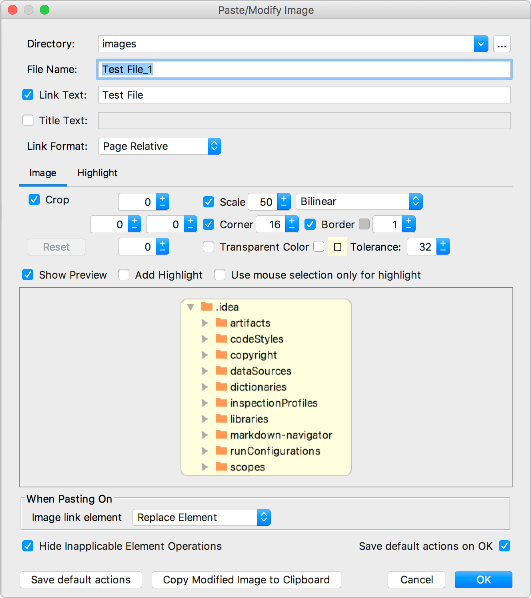
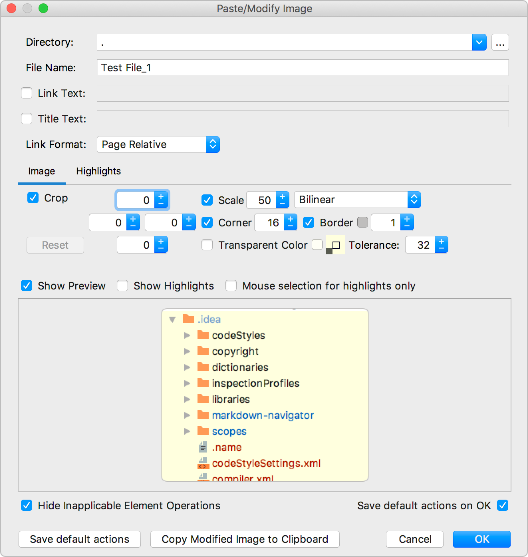
dist eap 2.7.0.10
add multiple highlights to paste images

diff --git a/resources/com/vladsch/idea/multimarkdown/html_mime_default.css b/resources/com/vladsch/idea/multimarkdown/html_mime_default.css
@@ -1,3 +1,4 @@
+abbr                         { border-bottom: 1px dashed #0366d6 }
 aside                        { margin:0;padding:0 0 0 10pt;border-left:2pt solid #C80010; }
 blockquote                   { margin:0;padding:0 0 0 10pt;border-left:2pt solid #bbb;color:#666; }
 blockquote h1                { margin:1.3em 0 1em;padding:0;font-weight:bold;font-size:1.6em;border-bottom:1pt solid #ddd;color:#666; }
@@ -80,4 +81,4 @@ div.adm-block.adm-tip > div.adm-heading       { background: #E9F9F6;color: #01BF
 div.adm-block.adm-warning                     { display: block;width: 99%;border-radius: 6px;padding-left: 10px;margin-bottom: 1em;border: 1px solid;border-left-width: 4px;border-color: #ebebeb;border-bottom-color: #bfbfbf;box-shadow: 2px 2px 6px #cdcdcd;border-left-color: #FF9001; }
 div.adm-block.adm-warning > div.adm-heading   { background: #FEF3E8;color: #FF9001;display: block;font-weight: bold;font-size: 0.9em;height: 1.8em;padding-top: 0.3em;padding-bottom: 0.2em;border-bottom: solid 1px #Fef3e8;padding-left: 10px;margin-left: -10px; }
 img.emoji                                     { width: 1.2em; height: 1.2em; vertical-align: text-bottom; }
-img                          { max-width:$MAX_WIDTH$; }
+img                                           { max-width:$MAX_WIDTH$; }

diff --git a/resources/META-INF/VERSION.md b/resources/META-INF/VERSION.md
@@ -3,7 +3,7 @@
 [TOC levels=3,4]: # "Version History"
 
 ### Version History
-- [2.7.0.8 - Bug Fix & Enhancement Release](#2708---bug-fix--enhancement-release)
+- [2.7.0.10 - Bug Fix & Enhancement Release](#27010---bug-fix--enhancement-release)
 - [2.7.0 - Bug Fix & Enhancement Release](#270---bug-fix--enhancement-release)
 - [2.6.0 - Bug Fix & Enhancement Release](#260---bug-fix--enhancement-release)
 - [2.5.4 - Bug Fix Release](#254---bug-fix-release)
@@ -15,9 +15,26 @@
 - [2.3.5 - Bug Fix & Enhancement Release](#235---bug-fix--enhancement-release)
 
 
-### 2.7.0.8 - Bug Fix & Enhancement Release
+### 2.7.0.10 - Bug Fix & Enhancement Release
 
 * [ ] Fix: copy fixed utils from Arduino Support plugin.
+* [ ] Add: create `COPY_HTML_MIME` rendering profile with a copy of the default template as an
+      option
+* [ ] Fix: drag/drop file after physical space mistakenly takes previous element. Insert actual
+      spaces at drop point to avoid an issue.
+* Add: multiple highlights editing in paste/modify image dialog
+* Fix: drag/drop file after end of file causes exception. Most likely will be fixed by above.
+* Fix: pasting an image and selecting non-existent directory path would not save image but only
+  create directories.
+* Add: `Copy markdown without soft line breaks` copies document or selection to the clipboard
+  eliminating soft line breaks. Useful when copying wrapped markdown to GitHub comments.
+* Add: All copy markdown actions: `CopyHtmlMimeFormattedAction`, `CopyJiraFormattedAction`,
+  `CopyNoSoftLineBreaksAction` and `CopyYouTrackFormattedAction`, now include all reference
+  defining elements which were referenced from the copied part. All links and other elements
+  resolve without needing to include their reference definitions.
+* Fix: add missing handling of `abbr` in html mime formatted copy
+* Fix: diagnostic/2119, Double cannot be cast to Integer exception
+* Fix: When cropping using selection if crop is not enabled, then select it on mouse release.
 * Fix: nasty bug introducing typing delay with preview enabled.
 * Fix: optimize link resolution to for HTML rendering by a factor of 5+ for image and markdown
   links. Now can handle 100+ links in the same time it used to take to resolve 20 links.

diff --git a/README.md b/README.md
@@ -104,7 +104,13 @@ Bug and compatibility fixes you can find in [Version Notes].
 to preview next release.
 
 * Add: Image Paste highlight option to annotate an area of the image.  
-  ![Screenshot_PasteImage_Highlight](assets/images/faq/ScreenShot_PasteImage_sm_h.png)
+  ![Screenshot_PasteImage_Highlight](/assets/images/faq/ScreenShot_PasteImage_sm_h.png)
+* Add: `Copy markdown without soft line breaks` copies document or selection to the clipboard
+  eliminating soft line breaks. Useful when copying wrapped markdown to GitHub comments.
+* Add: All copy markdown actions: `CopyHtmlMimeFormattedAction`, `CopyJiraFormattedAction`,
+  `CopyNoSoftLineBreaksAction` and `CopyYouTrackFormattedAction`, now include all reference
+  defining elements which were referenced from the copied part. All links and other elements
+  resolve without needing to include their reference definitions.
 * Add: option for full highlight attributes, enabled takes 3700 attributes out of the pool,
   while disabled less than 300.
 
